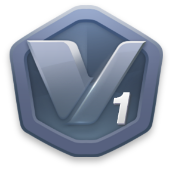
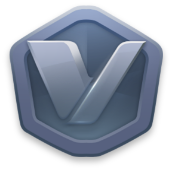
fix: 修正VIP等级显示逻辑和前缀
调整VIP等级图片和文本显示逻辑，将等级前缀从"P"改为"E"

diff --git a/src/pages/training/index.vue b/src/pages/training/index.vue
@@ -113,28 +113,28 @@ onMounted(async () => {
       <view class="mt-[20px] flex items-center justify-center">
         <view class="flex flex-col items-center justify-center">
           <u-image
-            v-if="vipInfoData.vipLevel == 1"
+            v-if="vipInfoData.vipLevel == 0"
             src="/static/level/level_0.png"
             width="60"
             height="60"
             alt=""
           />
           <u-image
-            v-if="vipInfoData.vipLevel == 2"
+            v-if="vipInfoData.vipLevel == 1"
             src="/static/level/level_1.png"
             width="60"
             height="60"
             alt=""
           />
           <u-image
-            v-if="vipInfoData.vipLevel == 3"
+            v-if="vipInfoData.vipLevel == 2"
             src="/static/level/level_2.png"
             width="60"
             height="60"
             alt=""
           />
           <u-image
-            v-if="vipInfoData.vipLevel == 4"
+            v-if="vipInfoData.vipLevel == 3"
             src="/static/level/level_3.png"
             width="60"
             height="60"
@@ -145,7 +145,7 @@ onMounted(async () => {
               当前等级
             </view>
             <view class="mt-[5px] text-center text-[#000] font-bold">
-              P{{ vipInfoData.vipLevel }}
+              E{{ vipInfoData.vipLevel }}
             </view>
           </view>
         </view>
@@ -158,28 +158,28 @@ onMounted(async () => {
         />
         <view class="flex flex-col items-center justify-center">
           <u-image
-            v-if="vipInfoData.nextVipLevel == 1"
+            v-if="vipInfoData.nextVipLevel == 0"
             src="/static/level/level_0.png"
             width="60"
             height="60"
             alt=""
           />
           <u-image
-            v-if="vipInfoData.nextVipLevel == 2"
+            v-if="vipInfoData.nextVipLevel == 1"
             src="/static/level/level_1.png"
             width="60"
             height="60"
             alt=""
           />
           <u-image
-            v-if="vipInfoData.nextVipLevel == 3"
+            v-if="vipInfoData.nextVipLevel == 2"
             src="/static/level/level_2.png"
             width="60"
             height="60"
             alt=""
           />
           <u-image
-            v-if="vipInfoData.nextVipLevel == 4"
+            v-if="vipInfoData.nextVipLevel == 3"
             src="/static/level/level_3.png"
             width="60"
             height="60"
@@ -190,7 +190,7 @@ onMounted(async () => {
               下一等级
             </view>
             <view class="mt-[5px] text-center text-[#000] font-bold">
-              P{{ vipInfoData.nextVipLevel }}
+              E{{ vipInfoData.nextVipLevel }}
             </view>
           </view>
         </view>
